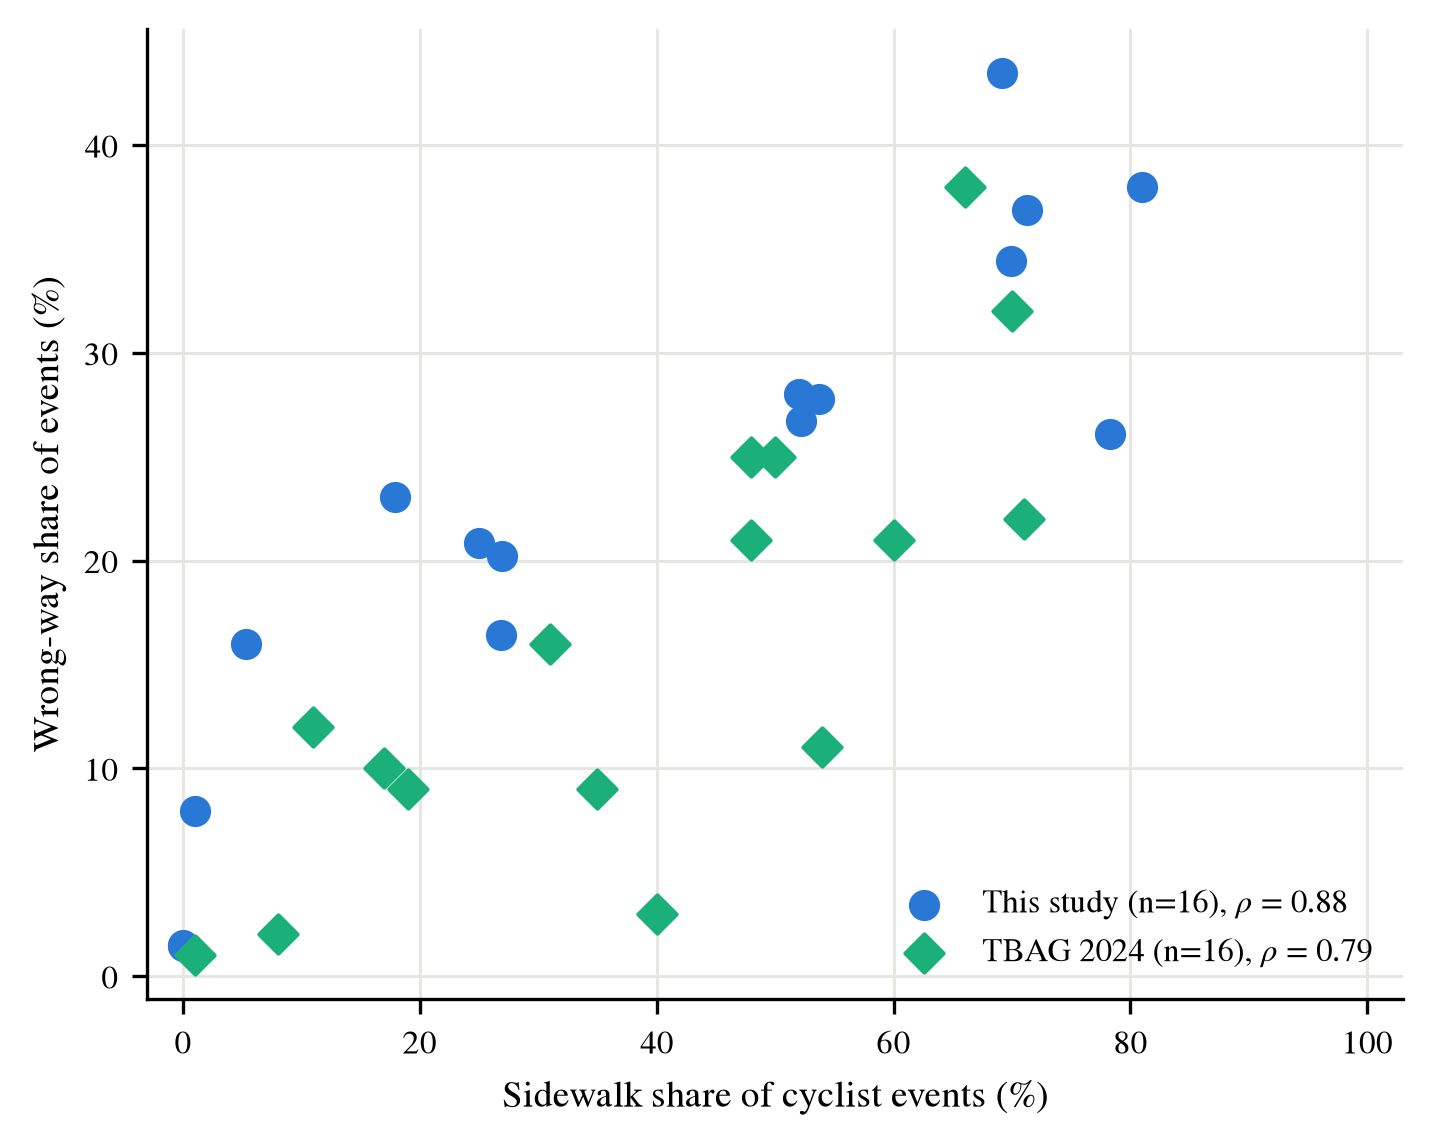
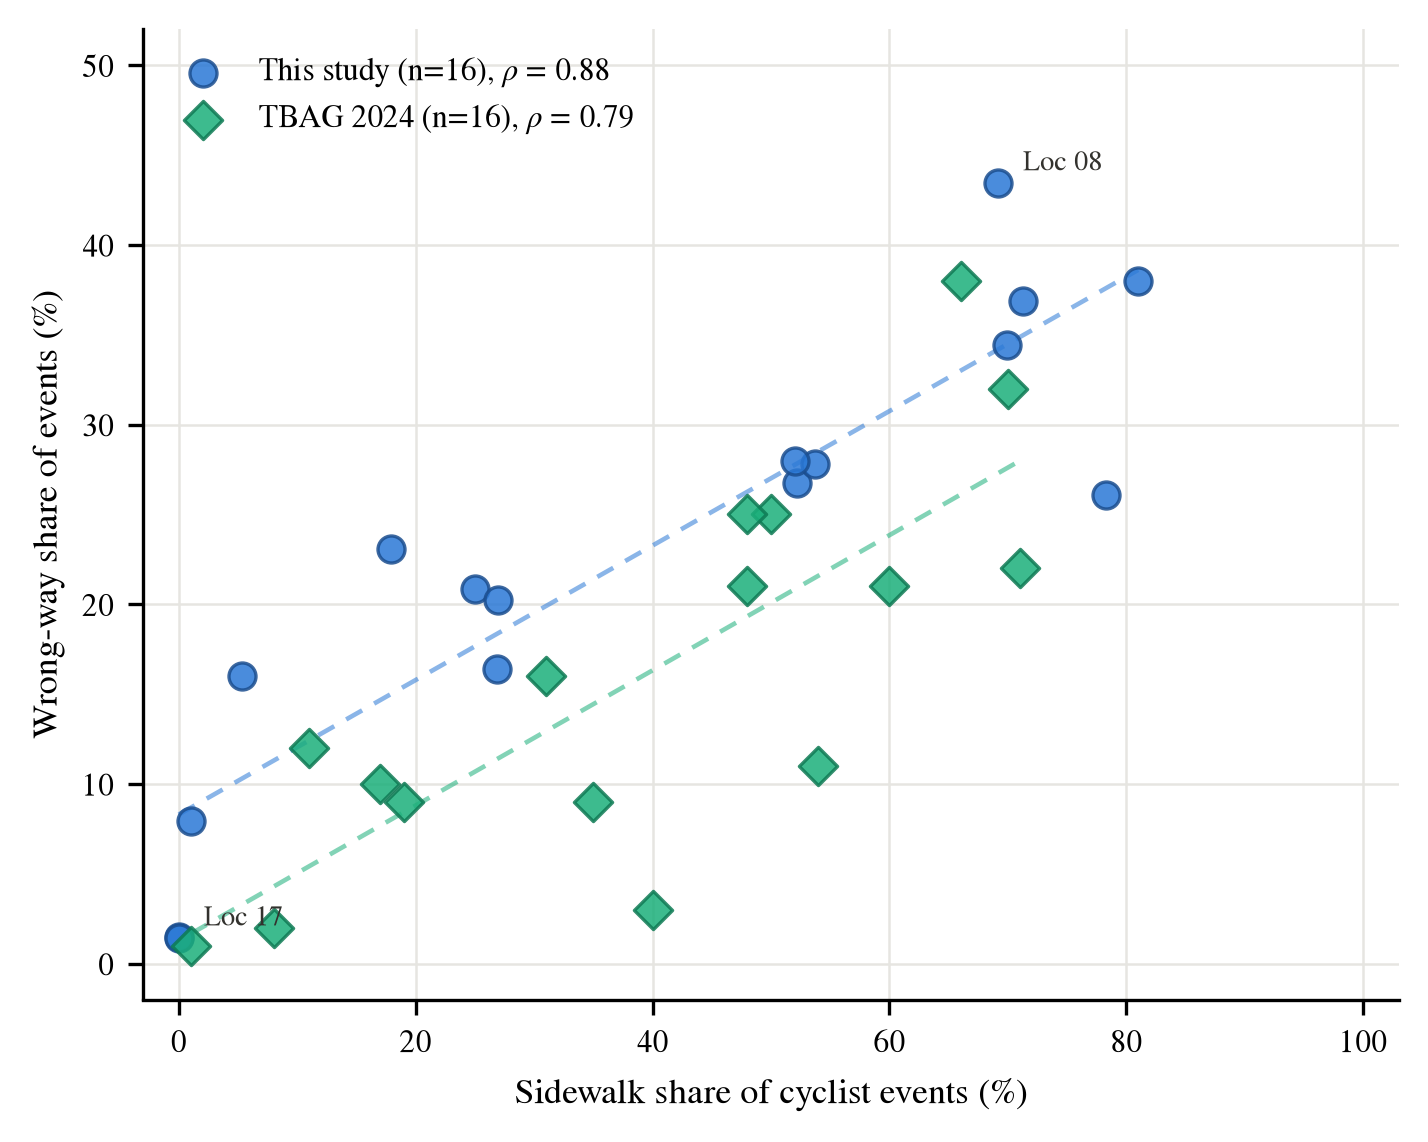
Sync restyled scatter figure from main

diff --git a/paper/make_figs_v3.py b/paper/make_figs_v3.py
@@ -176,18 +176,30 @@ def fig_scatter(rows, out):
           f" (expect 0.788, 3e-04)")
 
     fig, ax = plt.subplots(figsize=(5.4, 4.2), dpi=300)
-    ax.scatter(sw, ww, s=42, color=BLUE, marker="o", zorder=3,
+    for xs_f, ys_f, c in ((sw, ww, BLUE), (TBAG_SW, TBAG_WW, GREEN)):
+        b1, b0 = np.polyfit(xs_f, ys_f, 1)
+        xf = np.array([min(xs_f), max(xs_f)])
+        ax.plot(xf, b0 + b1 * xf, color=c, lw=1.1, ls=(0, (4, 3)),
+                alpha=0.55, zorder=2)
+    ax.scatter(sw, ww, s=42, facecolor=BLUE, alpha=0.85, marker="o",
+               edgecolor="#1b4e8f", linewidth=0.8, zorder=3,
                label=rf"This study (n={len(sw)}), $\rho$ = {rho_us.statistic:.2f}")
-    ax.scatter(TBAG_SW, TBAG_WW, s=42, color=GREEN, marker="D", zorder=3,
+    ax.scatter(TBAG_SW, TBAG_WW, s=42, facecolor=GREEN, alpha=0.85,
+               marker="D", edgecolor="#0e7a54", linewidth=0.8, zorder=3,
                label=rf"TBAG 2024 (n=16), $\rho$ = {rho_tb.statistic:.2f}")
-    ax.set_xlabel("Sidewalk share of cyclist events (%)", fontsize=9)
-    ax.set_ylabel("Wrong-way share of events (%)", fontsize=9)
-    ax.tick_params(labelsize=8)
+    for r, x, y in zip(sub, sw, ww):
+        if r["loc"] in ("17", "08"):
+            ax.annotate(f"Loc {r['loc']}", (x, y), textcoords="offset points",
+                        xytext=(6, 3), fontsize=6.8, color=INK)
+    ax.set_xlabel("Sidewalk share of cyclist events (%)", fontsize=8.5)
+    ax.set_ylabel("Wrong-way share of events (%)", fontsize=8.5)
+    ax.tick_params(labelsize=7.5)
     ax.spines[["top", "right"]].set_visible(False)
-    ax.grid(color="#e6e5e1", lw=0.7, zorder=0)
+    ax.grid(color="#e6e5e1", lw=0.6, zorder=0)
     ax.set_axisbelow(True)
-    ax.legend(fontsize=7.8, frameon=False, loc="lower right")
+    ax.legend(fontsize=7.5, frameon=False, loc="upper left")
     ax.set_xlim(-3, 103)
+    ax.set_ylim(-2, 52)
     fig.savefig(out, bbox_inches="tight")
     plt.close(fig)
 
